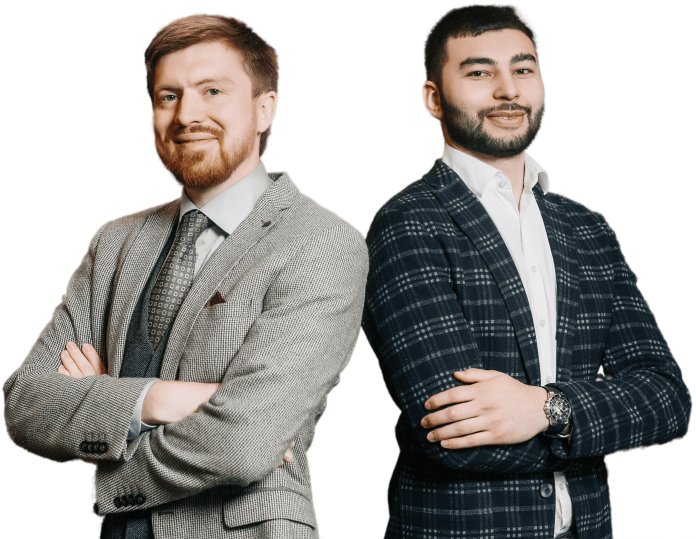
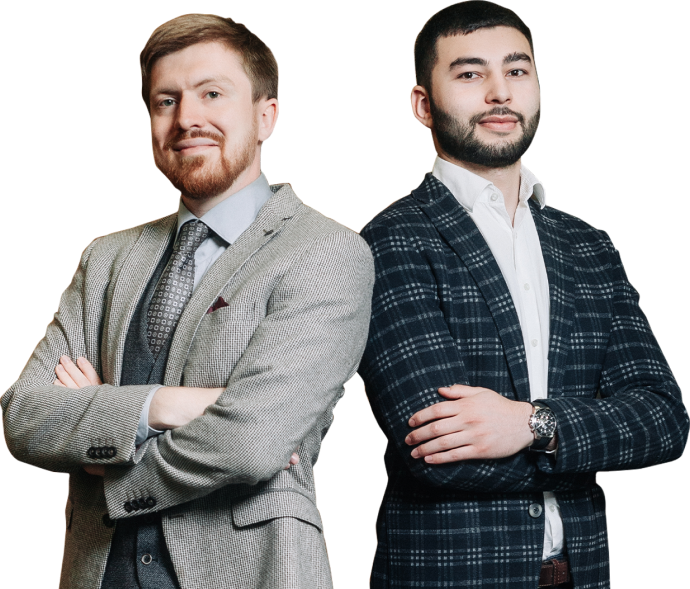
add fix

diff --git a/css/style.css b/css/style.css
@@ -78,16 +78,8 @@ address {
   margin: 0 auto;
 }
 @media screen and (max-width: 1460px) {
-  .hero-img {
-    width: 750px;
-    margin: 0 auto;
-  }
 }
 @media screen and (max-width: 1280px) {
-  .hero-img {
-    width: 100%;
-    margin: 0 auto;
-  }
 }
 @media screen and (max-width: 870px) {
   .container {
@@ -104,10 +96,19 @@ address {
   margin-bottom: 10px;
 }
 
+.page-header-s {
+  display: none;
+}
 @media screen and (max-width: 870px) {
   .container.header {
     margin-top: 0;
     justify-content: center;
+  }
+  .page-header {
+    display: none;
+  }
+  .page-header-s {
+    display: block;
   }
 }
 
@@ -148,7 +149,13 @@ address {
 .hero-img-small {
   display: none;
 }
-@media screen and (max-width: 1300px) {
+@media screen and (max-width: 1460px) {
+  .hero-img {
+    width: 750px;
+    margin: 0 auto;
+  }
+}
+@media screen and (max-width: 1280px) {
   .hero-img {
     width: 100%;
     margin: 0 auto;
@@ -158,8 +165,13 @@ address {
 @media screen and (max-width: 870px) {
   .hero-img {
     margin-left: 0px;
-    width: 500px;
+    width: 100%;
     margin: 0 auto;
+  }
+  .hero-img-bg {
+    margin: 0 auto;
+    max-width: 500px;
+    width: 100%;
   }
 }
 @media screen and (max-width: 480px) {
@@ -167,8 +179,13 @@ address {
     width: 21px;
     height: 21px;
   }
+  .hero-img {
+    display: none;
+  }
   .hero-img-small {
+    display: block;
     margin: 0 auto;
+
     width: 100%;
   }
   .hero-img-bg {
@@ -216,6 +233,7 @@ address {
 @media screen and (max-width: 480px) {
   .hero-title {
     font-size: 36px;
+    margin-top: 0;
   }
 }
 .hero-title-flex {
@@ -337,7 +355,7 @@ address {
   .btn-hero {
     display: block;
     margin: 0 auto;
-    margin-bottom: 30px;
+    margin-bottom: 10px;
     width: 280px;
     height: 60px;
     font-size: 17px;

diff --git a/index.html b/index.html
@@ -35,6 +35,14 @@
         </div>
       </header>
       <section class="container flex-container">
+        <header class="page-header-s">
+          <div class="container header">
+            <a class="logo" href="" target="_blank" rel="noopener">
+              <img src="./img/logo_w.svg" alt="" />
+            </a>
+            <img src="./img/google-partner-logo-2.png" alt="" />
+          </div>
+        </header>
         <div class="dop">
           <div>
             <h1 class="hero-title">
@@ -63,7 +71,7 @@
         </div>
         <div class="hero-img-bg">
           <img class="hero-img" src="./img/hero1.png" alt="hero" />
-          <!-- <img class="hero-img-small" src="./img/hero-small.png" alt="hero" /> -->
+          <img class="hero-img-small" src="./img/hero_s.png" alt="hero" />
         </div>
       </section>
     </div>
